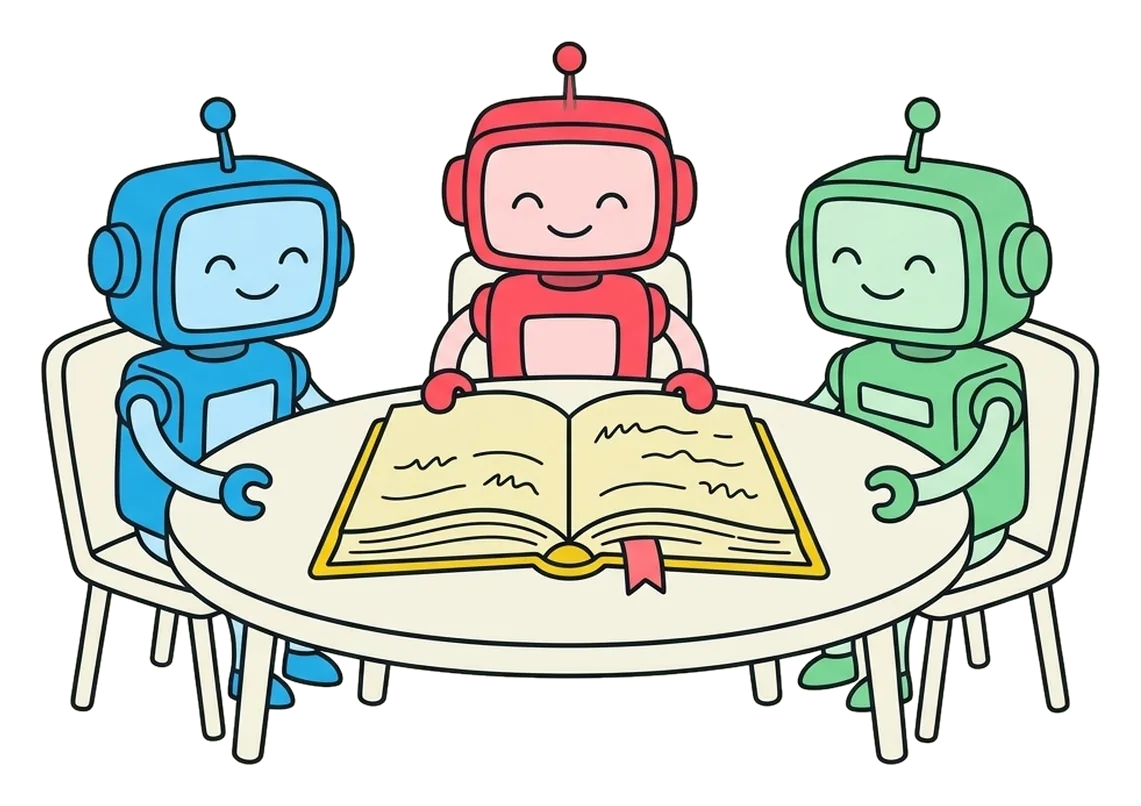
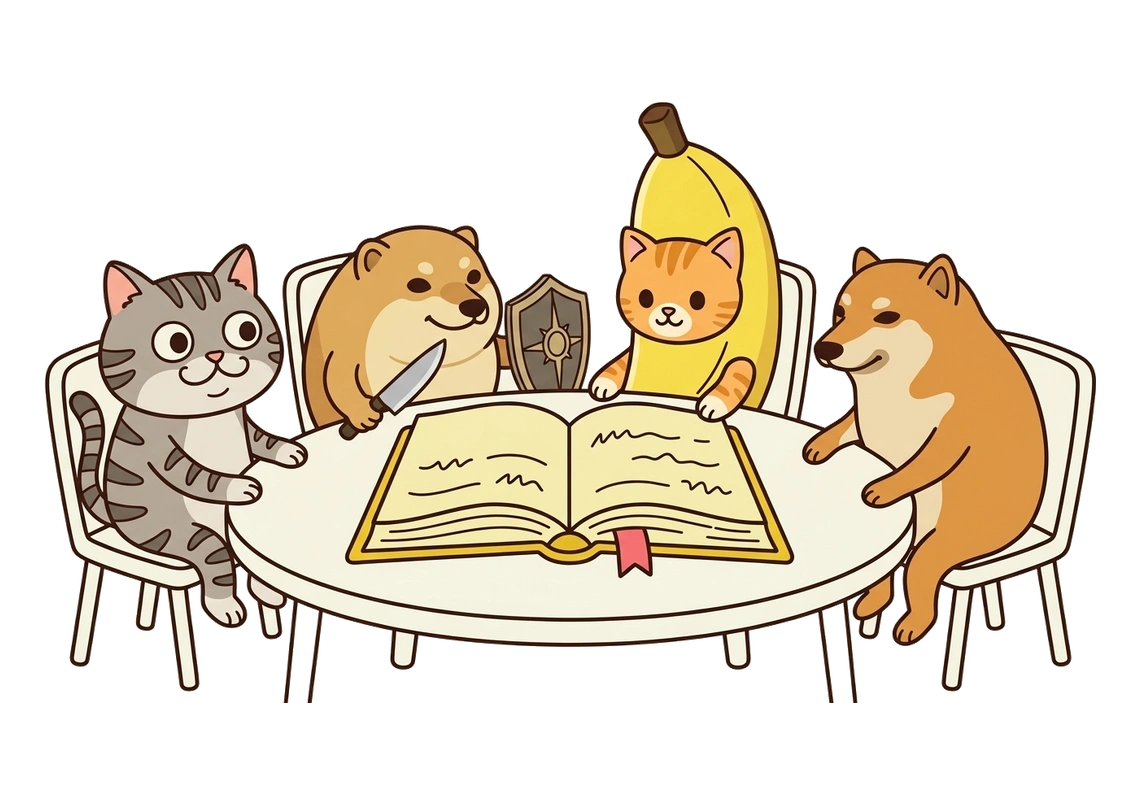
docs(slides): the four memes replace the robots in the remaining art

diff --git a/docs/slides/intro.html b/docs/slides/intro.html
@@ -106,7 +106,7 @@
         <div class="ai-steps" aria-label="AI 操作三步驟"><span>先讀 acg 指南</span><span>檢查狀況</span><span>確認操作範圍</span></div>
       </div>
       <div class="picture">
-        <div class="art" style="--ratio: 1200 / 595"><img src="./img/13-ask.webp" width="1200" height="595" alt="一個人對小機器人說話，機器人翻著說明書，旁邊依序是讀說明、檢查、動手三個圓點" decoding="async"><p class="bubble" style="--x: 37.7%; --y: 22.6%">「幫我把這台的 AI 設定同步好。」</p></div>
+        <div class="art" style="--ratio: 1200 / 595"><img src="./img/13-ask.webp" width="1200" height="595" alt="一個人對著八嘎柴柴、我的刀盾、比比拉布與巴巴博一說話，柴柴翻著說明書，旁邊依序是讀說明、檢查、動手三個圓點" decoding="async"><p class="bubble" style="--x: 37.7%; --y: 22.6%">「幫我把這台的 AI 設定同步好。」</p></div>
       </div>
     </div>
   </section>
@@ -129,7 +129,7 @@
         <p class="tiny-note">Claude 桌面版的 Chat 不讀本機技能：用 <code>acg package &lt;技能&gt;</code> 打成 ZIP，到 Settings → Customize → Skills 手動上傳。</p>
       </div>
       <figure class="picture">
-        <div class="art" style="--ratio: 1200 / 702"><img src="./img/08-skills.webp" width="1200" height="702" alt="一本打開的技能書飛出三張卡片，藍、綠、紅三個小機器人開心接住" decoding="async"></div>
+        <div class="art" style="--ratio: 1200 / 702"><img src="./img/08-skills.webp" width="1200" height="702" alt="一本打開的技能書飛出卡片，比比拉布、八嘎柴柴、我的刀盾與巴巴博一開心接住" decoding="async"></div>
       </figure>
     </div>
   </section>
@@ -142,7 +142,7 @@
         <p><code>acg memory enable</code>　啟用後開新會話才讀得到。</p>
         <p class="tiny-note">選用：<code>acg memory autopush enable 4</code> 每天 4 點自動上傳，不逐次確認，仍會檢查有沒有夾帶登入資訊。</p>
         <!-- 09-notebook：表格負責講清楚，這張圖負責講「一起讀」的感覺 -->
-        <img class="aside-art" src="./img/09-notebook.webp" width="1141" height="806" alt="藍、紅、綠三個小機器人圍著圓桌，一起看桌上同一本黃色筆記本" decoding="async">
+        <img class="aside-art" src="./img/09-notebook.webp" width="1141" height="806" alt="比比拉布、八嘎柴柴、我的刀盾與巴巴博一圍著圓桌，一起看桌上同一本黃色筆記本" decoding="async">
       </div>
       <figure class="picture mem-map" aria-label="三台電腦上的三個工具共讀同一本筆記。全域層三台都有；專案 me/shop 在桌機和筆電的資料夾不同，但是同一份；專案 me/blog 只在遠端主機。筆記透過你的置物櫃在電腦之間上傳、下載。">
         <div class="mem-grid" aria-hidden="true">
@@ -221,8 +221,8 @@
   </section>
 
   <section class="slide close-slide">
-    <!-- 三個工具謝幕：跟前面每一頁同一組機器人，設定包已經打包好 -->
-    <figure class="close-art"><img src="./img/12-wave.webp" width="1200" height="611" alt="藍、綠、紅三個小機器人朝你揮手，腳邊放著打包好的黃色設定包" decoding="async"></figure>
+    <!-- 四位萌寵謝幕：跟前面每一頁同一組夥伴，設定包已經打包好 -->
+    <figure class="close-art"><img src="./img/12-wave.webp" width="1200" height="611" alt="比比拉布、八嘎柴柴、我的刀盾與巴巴博一朝你揮手，腳邊放著打包好的黃色設定包" decoding="async"></figure>
     <h2>從這裡<span class="accent">開始</span></h2>
     <p class="lede">裝好 acg，它會接著問你設定要放在哪裡。</p>
     <div class="install-lines">
